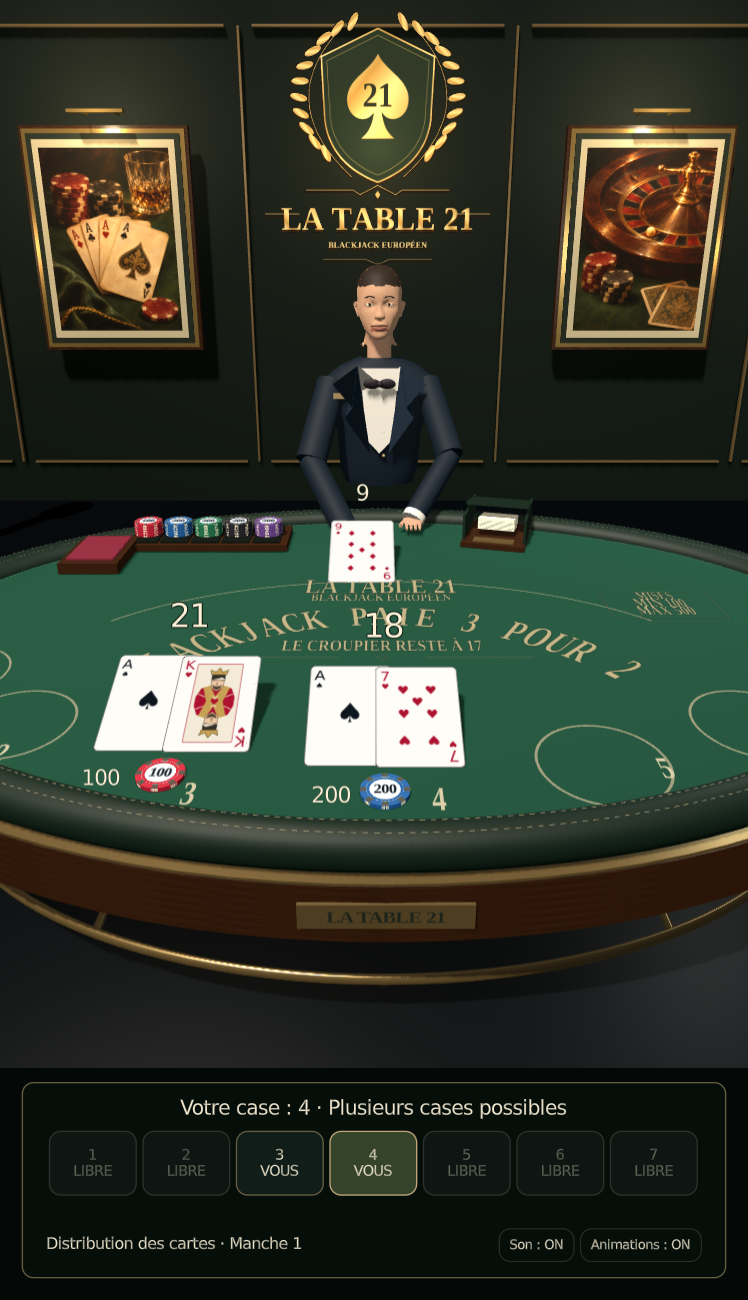
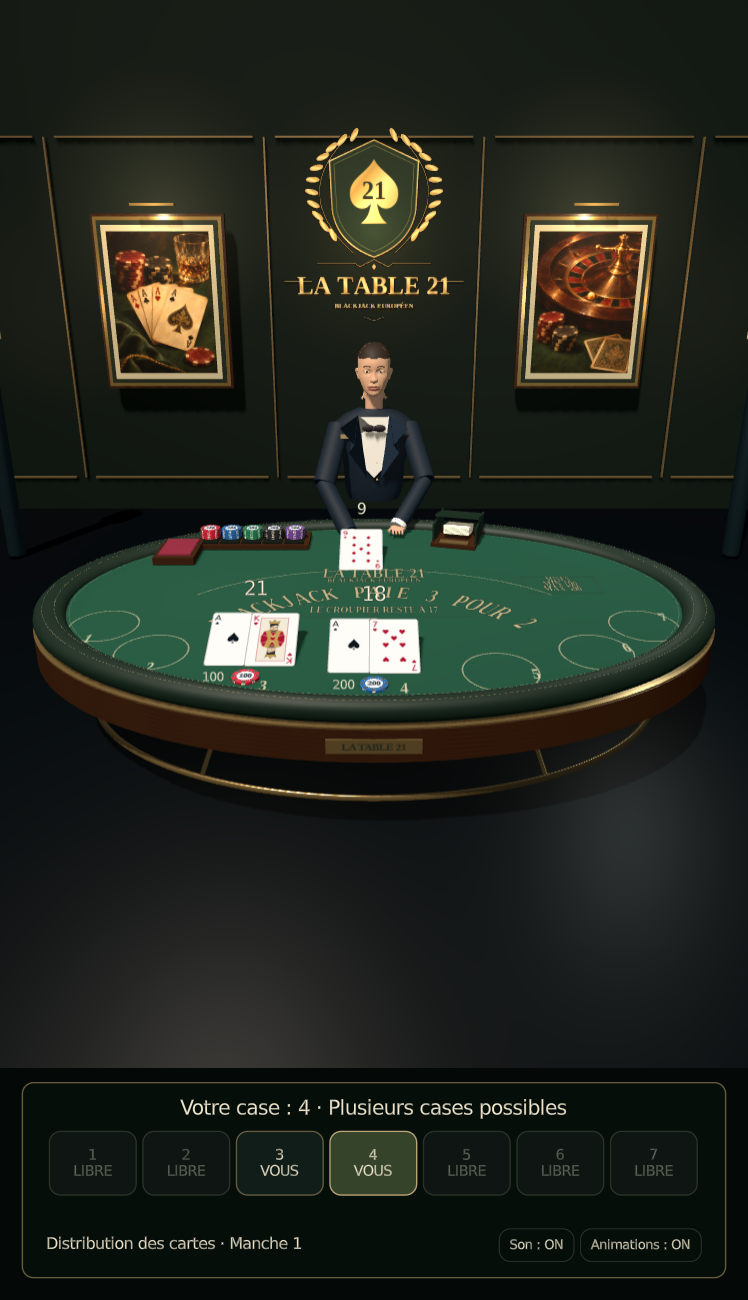
Fit the entire table on mobile while preserving the seated camera angle

diff --git a/README.md b/README.md
@@ -50,7 +50,7 @@ Captures réelles du navigateur : accueil et tables réseau.
 
 ## Cadrage téléphone
 
-En portrait, une vue inclinée rapprochée conserve le croupier et le décor dans le cadre. La taille des cartes et des totaux est adaptée au téléphone, et les commandes occupent un espace séparé sous la scène 3D. Elle suit la case active du joueur et chaque main après un split ; les sept places restent accessibles dans les commandes. Le cadrage équilibre les mains et l’ambiance de la pièce. Le cadrage ordinateur est conservé.
+En portrait, la caméra conserve une vue inclinée sur le croupier et le décor, et ajuste sa distance à l’écran pour montrer toute la table avec une marge autour du cuir. Le cadre reste centré pendant les changements de case et les splits. Les cartes gardent des proportions plus discrètes et les totaux restent au-dessus des mains. Les commandes occupent un espace séparé sous la scène 3D ; les sept places restent accessibles. Le cadrage ordinateur est conservé.
 
 ![Cartes sur téléphone](docs/visuels/telephone-cartes-lisibles.png)
 
